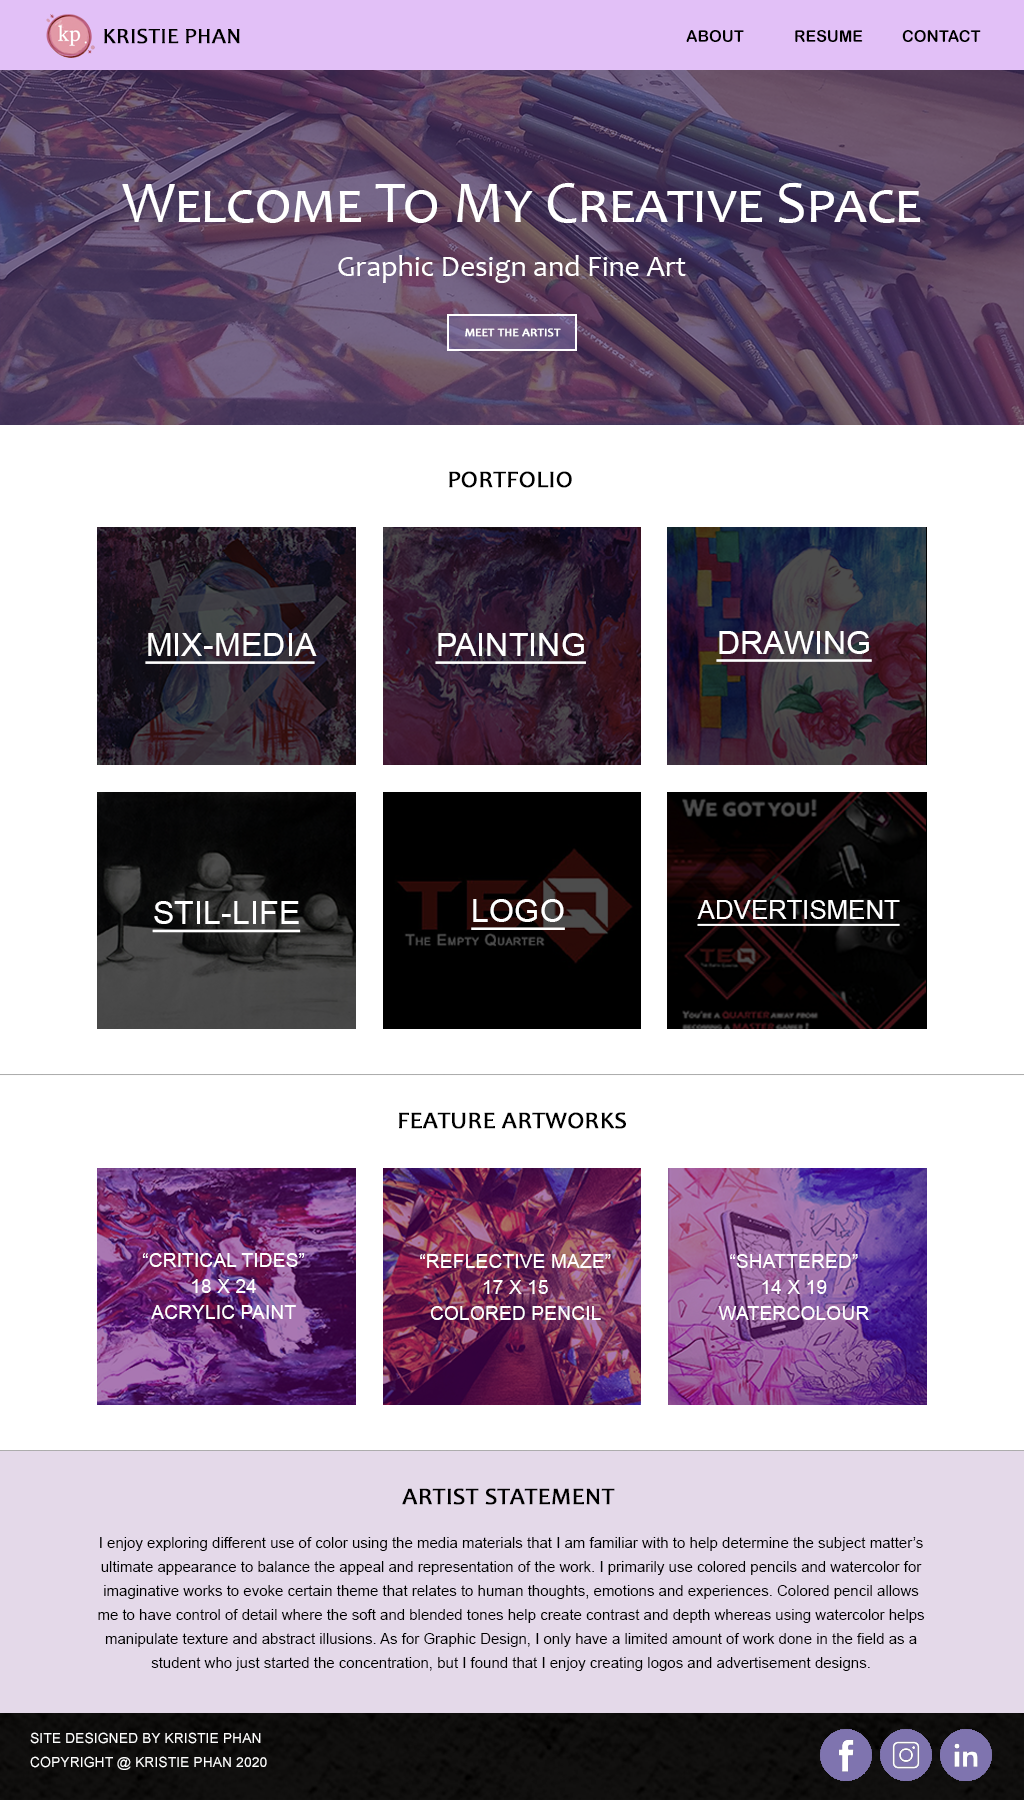
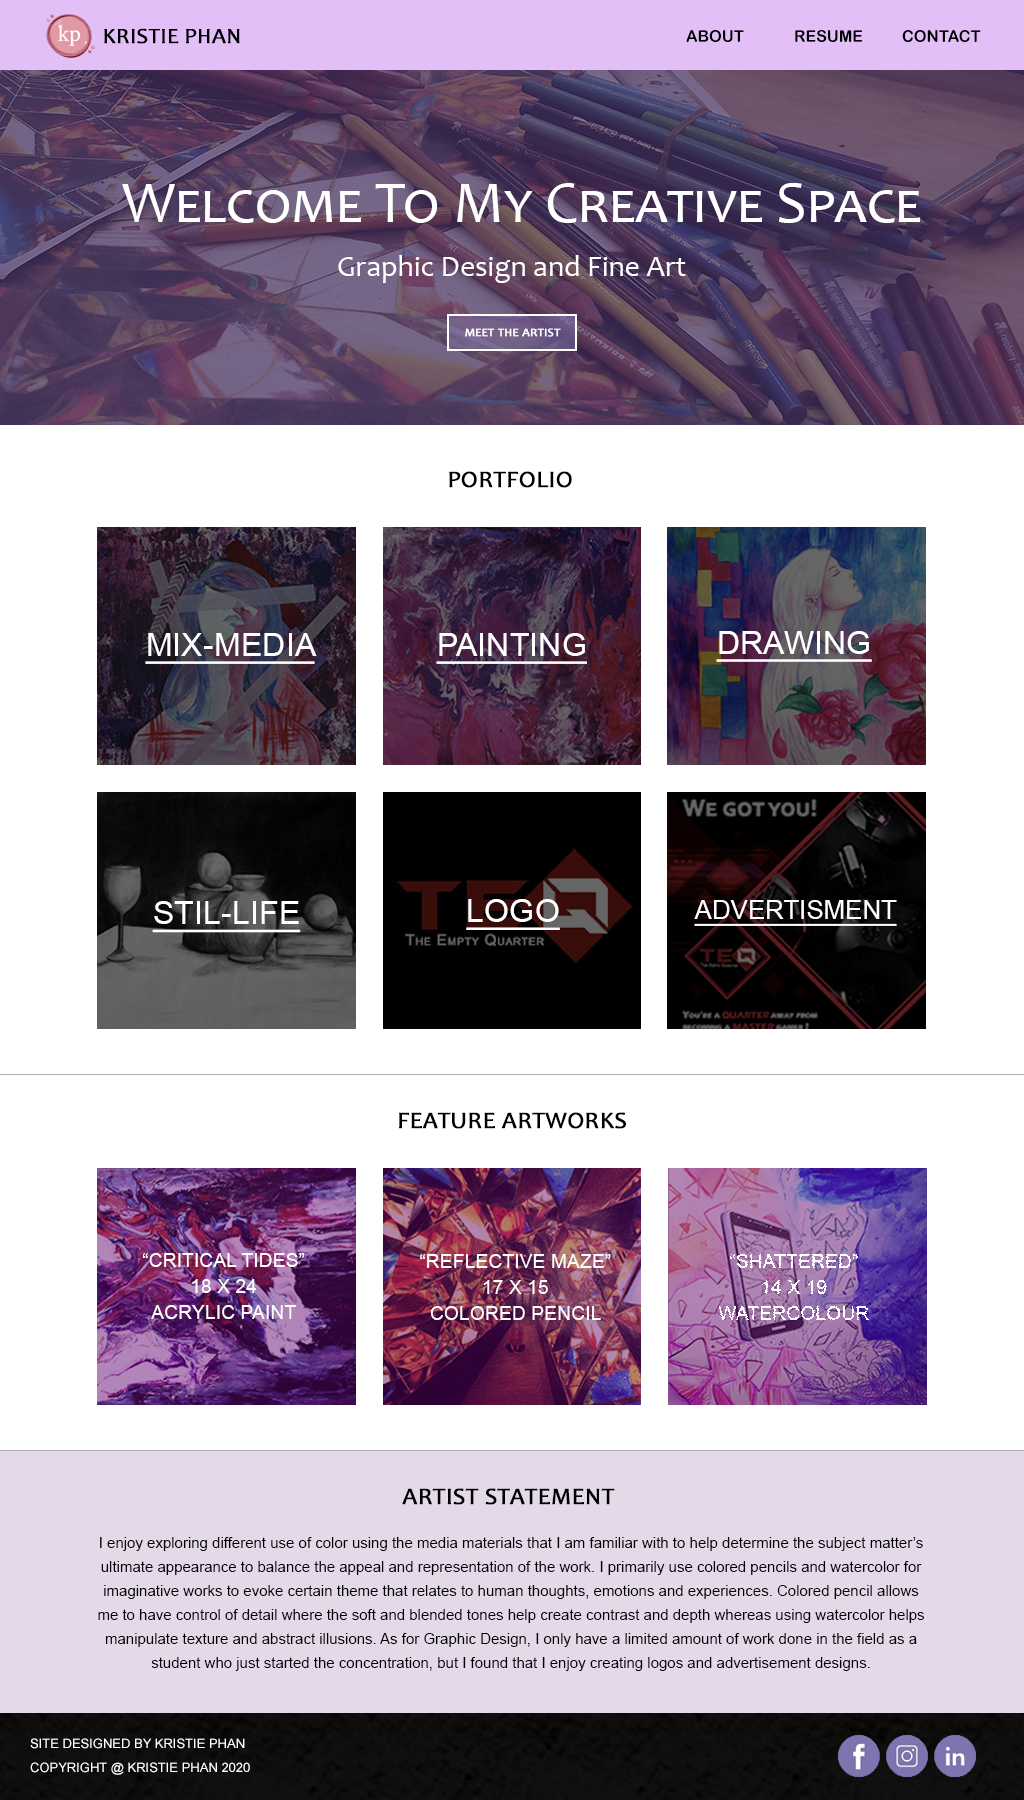
Add files via upload

diff --git a/project/process/finaldesign.html b/project/process/finaldesign.html
@@ -2,7 +2,7 @@
 <html>
 <head>
 <meta charset="UTF-8">
-<title>Mockup 1 (Revised + Refined)</title>
+<title>Mockup 1 (Refined)</title>
 <style>
     body {
     	text-align: center;
@@ -32,7 +32,7 @@
 </head>
 
 <body>
-	<h1>Mockup 1 (Revised + Refined)</h1>
+	<h1>Mockup 1 (Refined)</h1>
     <hr>
 	<div id="wrapper">
         <h2>Homepage + Portfolio</h2>
@@ -44,21 +44,26 @@
             <img src="images/Home Refined.png" alt="Homepage" width="100%;">
         </div>
         <div class="column">
-            <img src="images/Featured.png" alt="Homepage Feature" width="100%;">
+            <img src="images/Featured Refined.png" alt="Homepage Feature" width="100%;">
         </div>
     </div>
         <hr>
         <h2>Homepage > Portfolio > Mix Media (Sample Page)</h2>
             <img src="images/Portfolio sample Refined.png" alt="Portfolio Sample">
         <hr>
+    <div class="row">
+        <div class="column">
         <h2>About</h2>
-            <img src="images/About Refined.png" alt="About">
-        <hr>
+            <img src="images/About Refined.png" alt="About" width="100%;">
+        </div>
+        <div class="column">
         <h2>Resume</h2>
-            <img src="images/Resume Refined.png" alt="Resume">
-        <hr>
+            <img src="images/Resume Refined.png" alt="Resume" width="100%;">
+        </div>
+        <div class="column">
         <h2>Contact</h2>
-            <img src="images/Contact Refined.png" alt="Contact">
+            <img src="images/Contact Refined.png" alt="Contact" width="100%;">
+        </div>
 	</div>
 
 </body>
